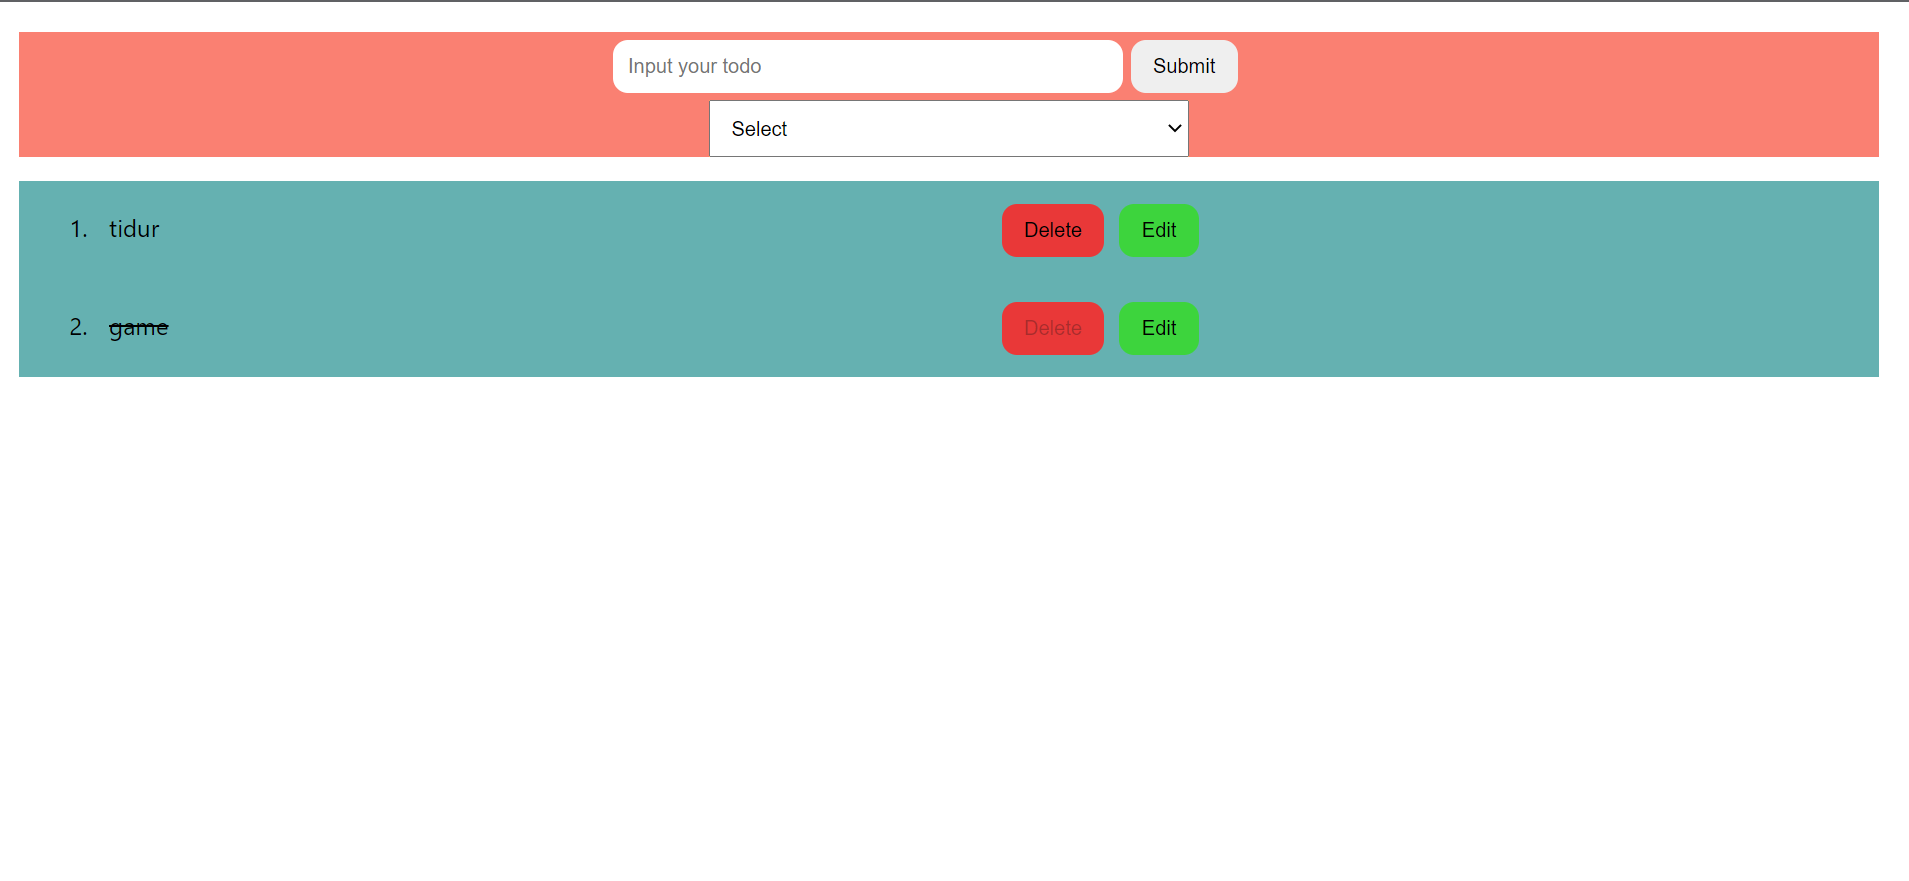
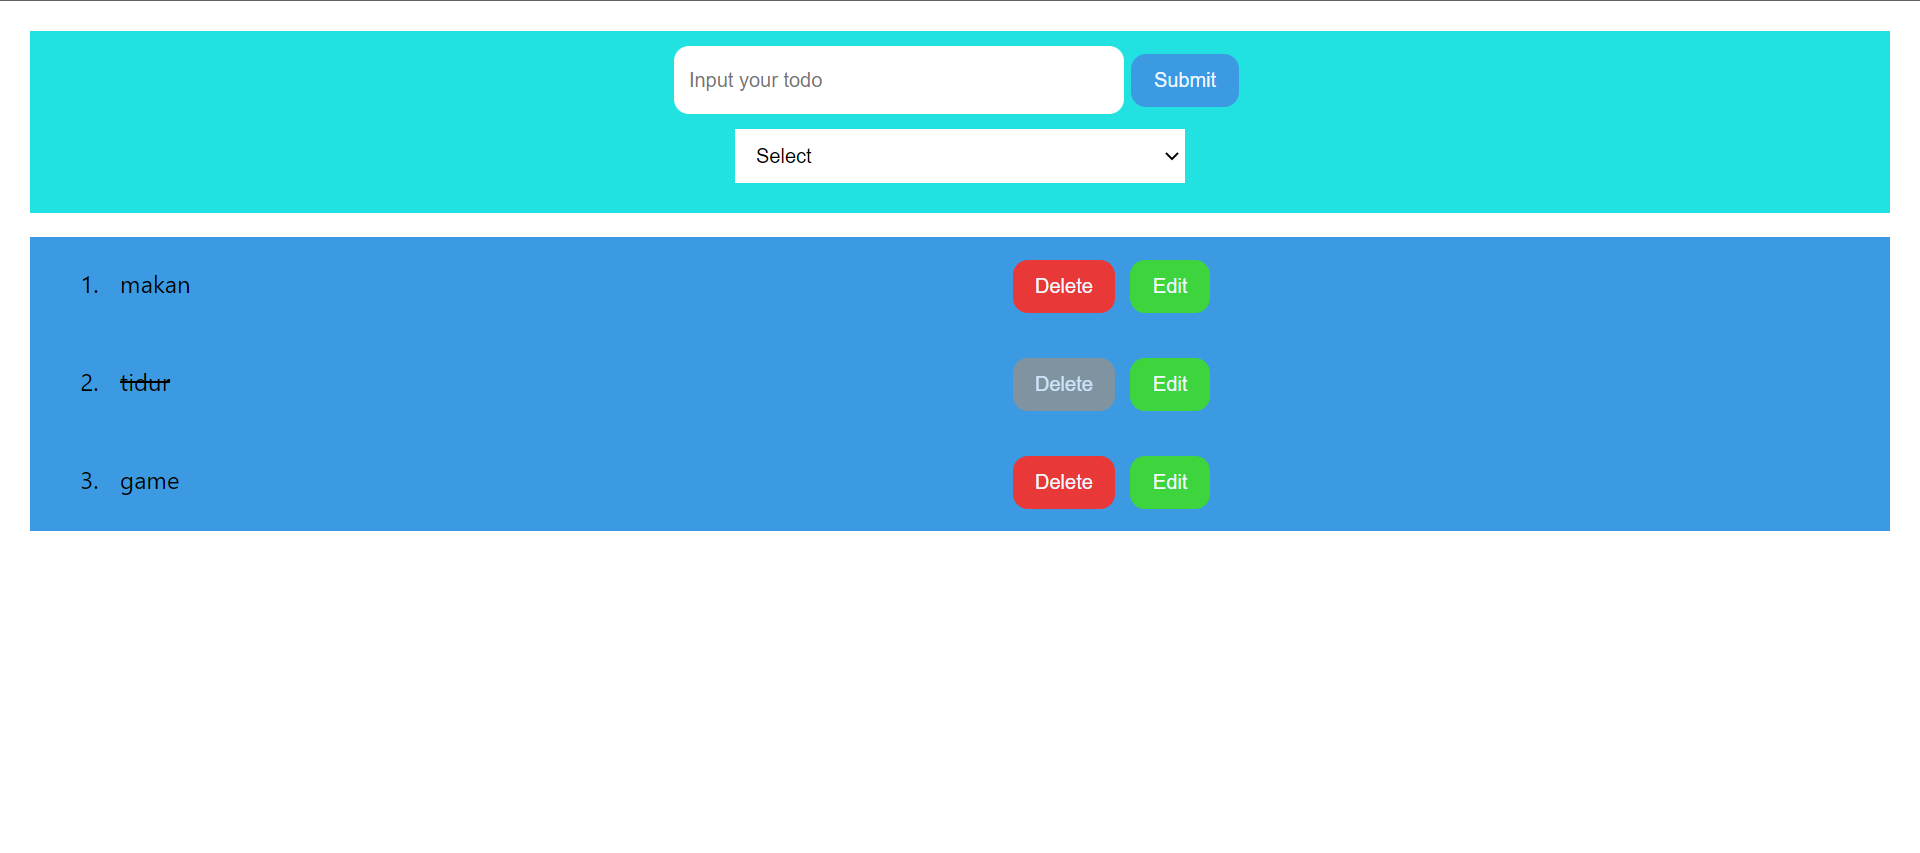
Change doc photo

diff --git a/src/App.css b/src/App.css
@@ -2,22 +2,25 @@ div.app{
   margin: 20px;
 }
 .input-todo{
-  margin: 0 auto;
   background: #21E1E1;
   padding: 10px;
 }
 .input-group{
-  margin: 0 auto!important;
+  display: flex;
+  justify-content: center;
+}
+.filter{
+  display: flex;
+  margin: 10px auto;
+  justify-content: center;
 }
 input{
   padding: 10px;
   outline: none;
-  width: 90%;
+  width: 300px;
   box-sizing: border-box;
   border: none;
   border-radius: 10px;
-  margin: 0 auto!important;
-
 }
 input:focus{
   outline: none;
@@ -34,6 +37,8 @@ button{
 }
 .not-allowed{
   cursor: not-allowed;
+  background-color: #919191!important;
+  opacity: 0.8;
 }
 .pointer{
   cursor: pointer;
@@ -46,6 +51,9 @@ button{
 }
 select{
   padding: 10px;
+  width: 300px;
+  outline: none;
+  border: none;
   margin: 0 auto!important;
 }
 select:focus{
@@ -75,10 +83,15 @@ div.todo{
   overflow-x:scroll;
 }
 
-/* @media screen and (max-width: 576px){
+@media screen and (max-width: 576px){
   .input-group{
     display: flex;    
     flex-direction: column;
-    justify-content: flex-start;
   }
-} */
+  input{
+    width: 100%;
+  }
+  .submit-todo{
+    width: 100px;
+  }
+}

diff --git a/src/App.js b/src/App.js
@@ -88,11 +88,11 @@ class App extends React.Component {
  }
 
  editTodo(todo) {
-  const editTodoText = prompt('Edit your Todo')
+  const editTodoText = prompt('Edit your Todo', todo.name)
   const filtered = this.state.todos.filter((item) => {
    if (item.id === todo.id) {
     item.name = editTodoText || item.name
-    item.status = 0
+    item.status = todo.status
    }
    return item
   })
@@ -122,7 +122,7 @@ class App extends React.Component {
        onKeyPress={this.handleKeyPressAddTodo.bind(this)}
       />
 
-      <button type='button' onClick={this.addTodos.bind(this)}>
+      <button type='button' className='submit-todo' onClick={this.addTodos.bind(this)}>
        Submit
       </button>
      </div>
